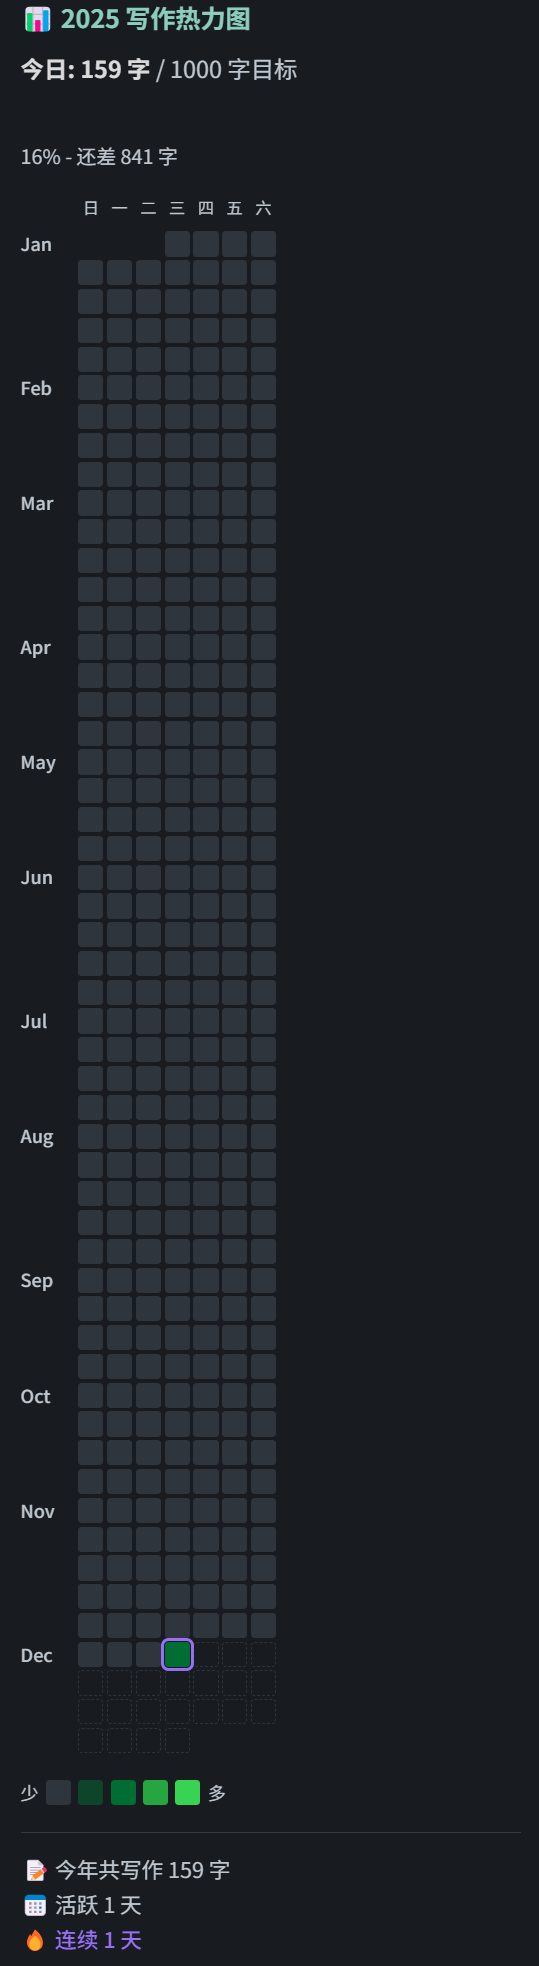
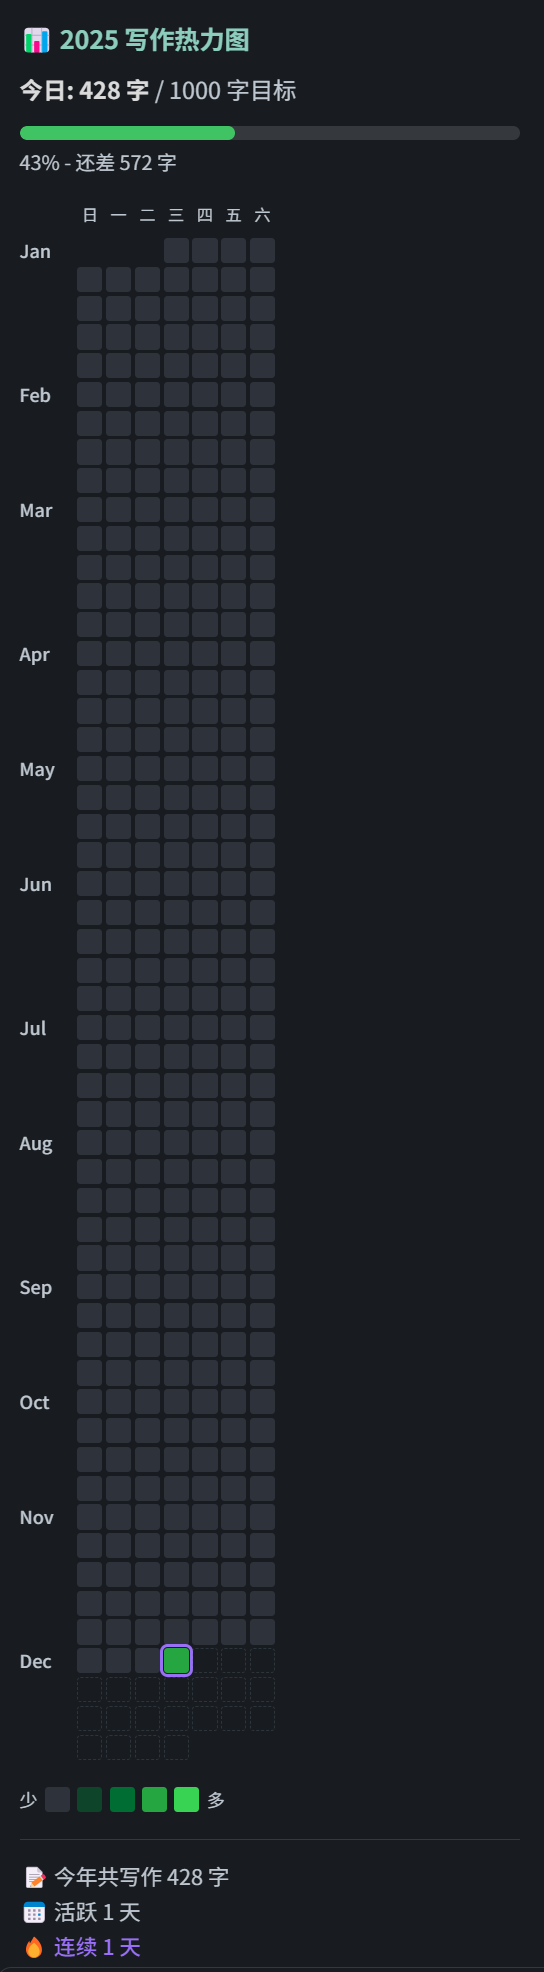
修复了进度条无法正常显示的bug

diff --git a/src/styles.css b/src/styles.css
@@ -1,0 +1,229 @@
+.heatmap-container {
+	padding: 12px;
+	font-family: var(--font-interface);
+	--heatmap-cell-size: 12px;
+	--heatmap-cell-gap: 2px;
+	--heatmap-color-level-0: #ebedf0;
+	--heatmap-color-level-1: #9be9a8;
+	--heatmap-color-level-2: #40c463;
+	--heatmap-color-level-3: #30a14e;
+	--heatmap-color-level-4: #216e39;
+	--heatmap-progress-fill: #40c463;
+	--heatmap-progress-half: #30a14e;
+	--heatmap-progress-complete: #216e39;
+}
+
+.heatmap-header h4 {
+	margin: 0 0 10px 0;
+	font-size: 14px;
+}
+
+.heatmap-stats {
+	margin-bottom: 12px;
+}
+
+.today-stats {
+	font-size: 13px;
+}
+
+.today-count {
+	font-weight: 600;
+	color: var(--text-normal);
+}
+
+.today-goal {
+	color: var(--text-muted);
+}
+
+/* 进度条 */
+.progress-container {
+	margin-bottom: 15px;
+}
+
+.dh-progress-bar {
+	width: 100%;
+	height: 8px;
+	background-color: var(--background-modifier-border);
+	border-radius: 4px;
+	overflow: hidden;
+	margin-bottom: 5px;
+}
+
+.progress-fill {
+	width: 0;
+	height: 100%;
+	background-color: var(--heatmap-progress-fill);
+	border-radius: 4px;
+	transition: width 0.3s ease;
+}
+
+.progress-fill.half {
+	background-color: var(--heatmap-progress-half);
+}
+
+.progress-fill.complete {
+	background-color: var(--heatmap-progress-complete);
+}
+
+.progress-text {
+	font-size: 11px;
+	color: var(--text-muted);
+}
+
+/* 热力图纵向布局 */
+.heatmap-vertical {
+	display: flex;
+	flex-direction: column;
+	gap: var(--heatmap-cell-gap);
+}
+
+.week-labels {
+	display: flex;
+	gap: var(--heatmap-cell-gap);
+	margin-bottom: 4px;
+}
+
+.month-label-spacer {
+	width: 30px;
+	min-width: 30px;
+}
+
+.week-label {
+	display: flex;
+	align-items: center;
+	justify-content: center;
+	font-size: 9px;
+	color: var(--text-muted);
+	height: var(--heatmap-cell-size);
+	width: var(--heatmap-cell-size);
+}
+
+.heatmap-grid {
+	display: flex;
+	flex-direction: column;
+	gap: var(--heatmap-cell-gap);
+}
+
+.heatmap-week-row {
+	display: flex;
+	gap: var(--heatmap-cell-gap);
+	align-items: center;
+}
+
+.month-side-label {
+	width: 30px;
+	min-width: 30px;
+	font-size: 10px;
+	font-weight: 500;
+	color: var(--text-muted);
+	text-align: left;
+}
+
+.heatmap-week {
+	display: flex;
+	gap: var(--heatmap-cell-gap);
+}
+
+.heatmap-day {
+	width: var(--heatmap-cell-size);
+	height: var(--heatmap-cell-size);
+	border-radius: 2px;
+	cursor: pointer;
+	transition: transform 0.1s, box-shadow 0.1s;
+}
+
+.heatmap-day:hover {
+	transform: scale(1.2);
+	box-shadow: 0 0 4px rgba(0,0,0,0.3);
+	z-index: 10;
+}
+
+.heatmap-day.empty {
+	background-color: transparent !important;
+	cursor: default;
+}
+
+.heatmap-day.today {
+	outline: 2px solid var(--text-accent);
+	outline-offset: 1px;
+}
+
+.heatmap-day.future {
+	background-color: transparent !important;
+	border: 1px dashed var(--text-faint);
+	opacity: 0.3;
+}
+
+.heatmap-day.level-0 {
+	background-color: var(--heatmap-color-level-0);
+}
+
+.heatmap-day.level-1 {
+	background-color: var(--heatmap-color-level-1);
+}
+
+.heatmap-day.level-2 {
+	background-color: var(--heatmap-color-level-2);
+}
+
+.heatmap-day.level-3 {
+	background-color: var(--heatmap-color-level-3);
+}
+
+.heatmap-day.level-4 {
+	background-color: var(--heatmap-color-level-4);
+}
+
+/* 图例 */
+.heatmap-legend {
+	display: flex;
+	align-items: center;
+	gap: 4px;
+	margin-top: 15px;
+	font-size: 10px;
+	color: var(--text-muted);
+}
+
+.legend-item {
+	border-radius: 2px;
+	width: var(--heatmap-cell-size);
+	height: var(--heatmap-cell-size);
+}
+
+.legend-item.level-0 {
+	background-color: var(--heatmap-color-level-0);
+}
+
+.legend-item.level-1 {
+	background-color: var(--heatmap-color-level-1);
+}
+
+.legend-item.level-2 {
+	background-color: var(--heatmap-color-level-2);
+}
+
+.legend-item.level-3 {
+	background-color: var(--heatmap-color-level-3);
+}
+
+.legend-item.level-4 {
+	background-color: var(--heatmap-color-level-4);
+}
+
+/* 年度统计 */
+.year-stats {
+	margin-top: 15px;
+	padding-top: 12px;
+	border-top: 1px solid var(--background-modifier-border);
+}
+
+.stats-item {
+	font-size: 12px;
+	color: var(--text-muted);
+	margin-bottom: 4px;
+}
+
+.stats-item.streak {
+	color: var(--text-accent);
+	font-weight: 500;
+}

diff --git a/src/heatmapView.ts b/src/heatmapView.ts
@@ -57,8 +57,10 @@ export class HeatmapView extends ItemView {
         header.createEl('h4', { text: `📊 ${year} 写作热力图` });
 
         // ===== 今日统计 =====
+        const safeDailyGoal = Math.max(1, settings.dailyGoal || 0);
         const todayCount = this.plugin.wordCounter.getTodayCount();
-        const goalPercent = Math.min(100, Math.round((todayCount / settings.dailyGoal) * 100));
+        const goalPercent = Math.min(100, Math.round((todayCount / safeDailyGoal) * 100));
+        const remainingWords = Math.max(0, safeDailyGoal - todayCount);
         
         const statsEl = container.createEl('div', { cls: 'heatmap-stats' });
         
@@ -68,7 +70,7 @@ export class HeatmapView extends ItemView {
             cls: 'today-count'
         });
         todayEl.createEl('span', { 
-            text: ` / ${settings.dailyGoal} 字目标`,
+            text: ` / ${safeDailyGoal} 字目标`,
             cls: 'today-goal'
         });
 
@@ -76,9 +78,10 @@ export class HeatmapView extends ItemView {
         if (settings.showProgressBar) {
             const progressContainer = container.createEl('div', { cls: 'progress-container' });
             
-            const progressBar = progressContainer.createEl('div', { cls: 'progress-bar' });
+            const progressBar = progressContainer.createEl('div', { cls: 'dh-progress-bar' });
             const progressFill = progressBar.createEl('div', { cls: 'progress-fill' });
             progressFill.style.width = `${goalPercent}%`;
+            progressFill.style.height = '100%';
             
             if (goalPercent >= 100) {
                 progressFill.addClass('complete');
@@ -90,7 +93,7 @@ export class HeatmapView extends ItemView {
             if (goalPercent >= 100) {
                 progressText.setText(`🎉 已完成 ${goalPercent}%！`);
             } else {
-                progressText.setText(`${goalPercent}% - 还差 ${settings.dailyGoal - todayCount} 字`);
+                progressText.setText(`${goalPercent}% - 还差 ${remainingWords} 字`);
             }
         }
 
@@ -315,9 +318,9 @@ export class HeatmapView extends ItemView {
         container.style.setProperty('--heatmap-color-level-2', settings.colorLevel2);
         container.style.setProperty('--heatmap-color-level-3', settings.colorLevel3);
         container.style.setProperty('--heatmap-color-level-4', settings.colorLevel4);
-        container.style.setProperty('--heatmap-progress-fill', settings.colorLevel2);
-        container.style.setProperty('--heatmap-progress-half', settings.colorLevel3);
-        container.style.setProperty('--heatmap-progress-complete', settings.colorLevel4);
+        container.style.setProperty('--heatmap-progress-fill', settings.progressColorFill || settings.colorLevel2);
+        container.style.setProperty('--heatmap-progress-half', settings.progressColorHalf || settings.colorLevel3);
+        container.style.setProperty('--heatmap-progress-complete', settings.progressColorComplete || settings.colorLevel4);
     }
 
     async onClose() {}

diff --git a/src/settings.ts b/src/settings.ts
@@ -20,6 +20,9 @@ export interface WritingHeatmapSettings {
     // 每日目标
     dailyGoal: number;        // 每日写作目标
     showProgressBar: boolean; // 是否显示进度条
+    progressColorFill: string;      // 进度条基础颜色
+    progressColorHalf: string;      // 超过50%时颜色
+    progressColorComplete: string;  // 完成目标时颜色
     
     // 显示设置
     cellSize: number;         // 格子大小 (px)
@@ -41,6 +44,9 @@ export const DEFAULT_SETTINGS: WritingHeatmapSettings = {
     
     dailyGoal: 1000,
     showProgressBar: true,
+    progressColorFill: '#40c463',
+    progressColorHalf: '#30a14e',
+    progressColorComplete: '#216e39',
     
     cellSize: 12,
     cellGap: 2
@@ -146,6 +152,9 @@ export class WritingHeatmapSettingTab extends PluginSettingTab {
         this.plugin.settings.colorLevel2 = preset.colorLevel2;
         this.plugin.settings.colorLevel3 = preset.colorLevel3;
         this.plugin.settings.colorLevel4 = preset.colorLevel4;
+        this.plugin.settings.progressColorFill = preset.colorLevel2;
+        this.plugin.settings.progressColorHalf = preset.colorLevel3;
+        this.plugin.settings.progressColorComplete = preset.colorLevel4;
         
         await this.plugin.saveSettings();
         this.display();
@@ -186,6 +195,36 @@ export class WritingHeatmapSettingTab extends PluginSettingTab {
                 .setValue(this.plugin.settings.showProgressBar)
                 .onChange(async (value) => {
                     this.plugin.settings.showProgressBar = value;
+                    await this.plugin.saveSettings();
+                }));
+
+        new Setting(containerEl)
+            .setName('进度条颜色（开始）')
+            .setDesc('低于 50% 进度时的颜色')
+            .addColorPicker(color => color
+                .setValue(this.plugin.settings.progressColorFill)
+                .onChange(async (value) => {
+                    this.plugin.settings.progressColorFill = value;
+                    await this.plugin.saveSettings();
+                }));
+
+        new Setting(containerEl)
+            .setName('进度条颜色（过半）')
+            .setDesc('达到 50% 进度后的颜色')
+            .addColorPicker(color => color
+                .setValue(this.plugin.settings.progressColorHalf)
+                .onChange(async (value) => {
+                    this.plugin.settings.progressColorHalf = value;
+                    await this.plugin.saveSettings();
+                }));
+
+        new Setting(containerEl)
+            .setName('进度条颜色（完成）')
+            .setDesc('完成目标后的颜色')
+            .addColorPicker(color => color
+                .setValue(this.plugin.settings.progressColorComplete)
+                .onChange(async (value) => {
+                    this.plugin.settings.progressColorComplete = value;
                     await this.plugin.saveSettings();
                 }));
 

diff --git a/styles.css b/styles.css
@@ -40,10 +40,10 @@
 	margin-bottom: 15px;
 }
 
-.progress-bar {
+.dh-progress-bar {
 	width: 100%;
 	height: 8px;
-	background-color: var(--background-secondary);
+	background-color: var(--background-modifier-border);
 	border-radius: 4px;
 	overflow: hidden;
 	margin-bottom: 5px;
